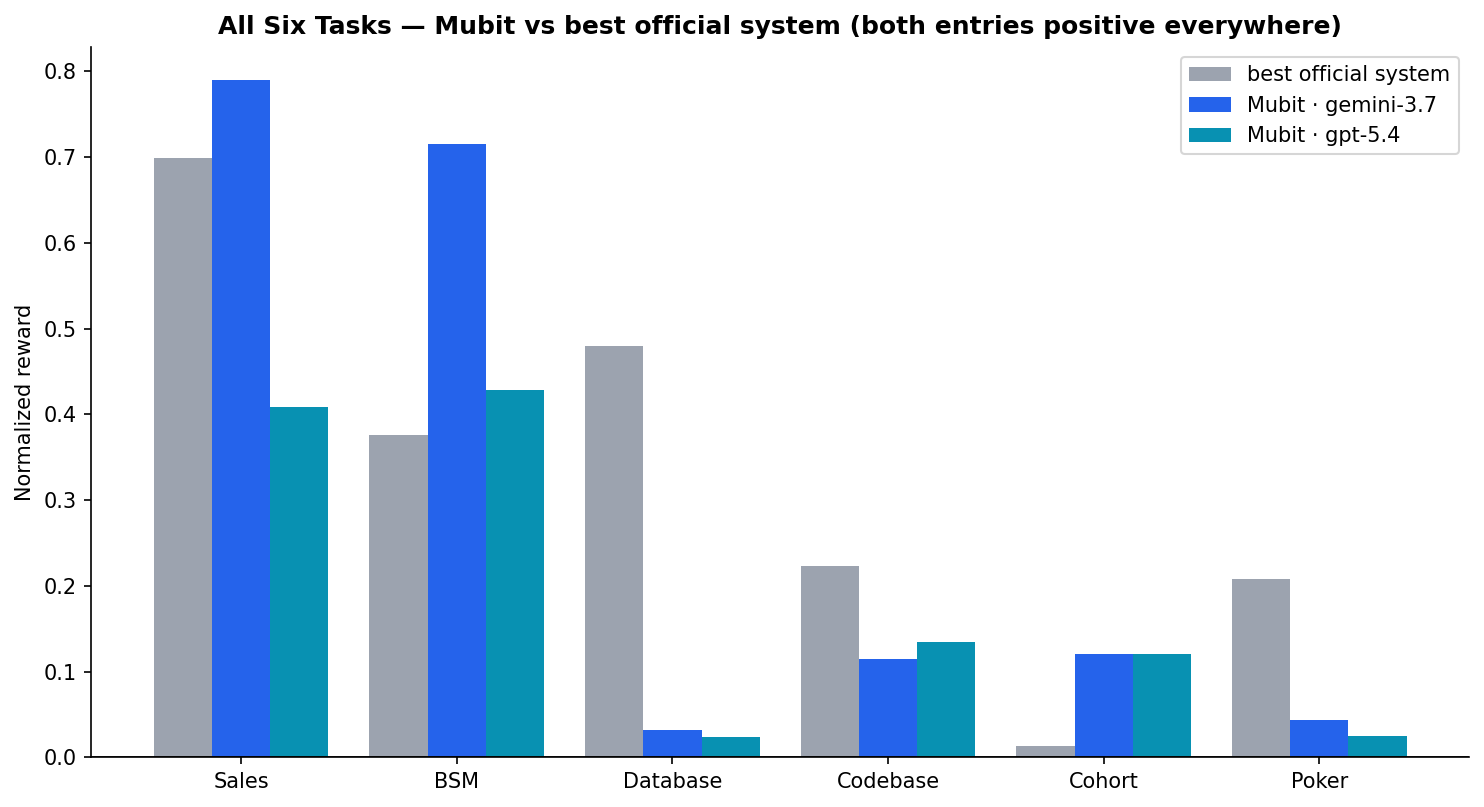
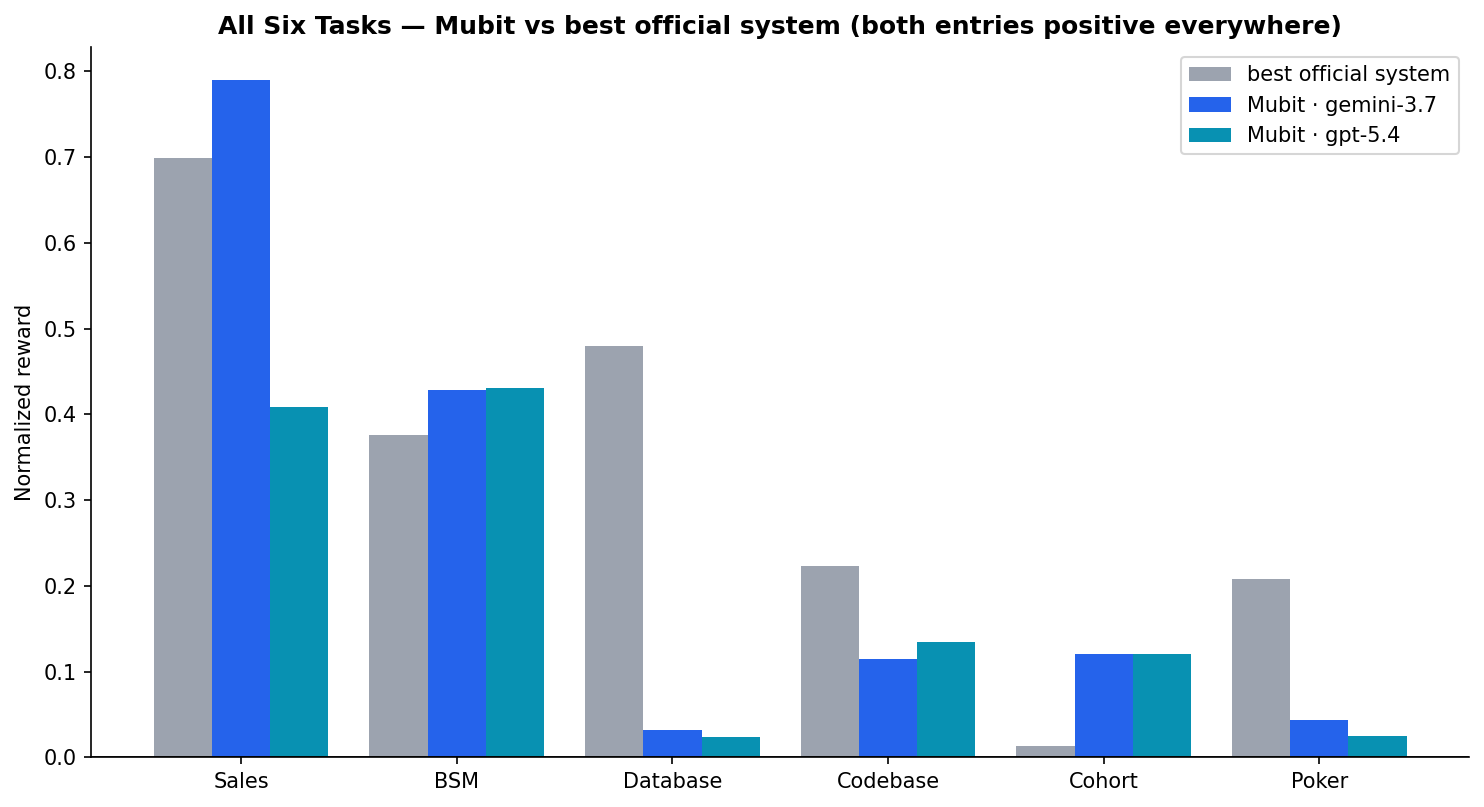
results: BSM re-measured with fitted-lattice registry (no prompt prior)
BSM figures across the leaderboard, per-task table, and charts now come
from the prior-free registry adapter: suite mean 0.554 (best 0.582) vs
baseline 0.219 on gemini-3.7, +30.1 cumulative gain. Aggregates: gemini-
3.7 +0.255 (#1), gpt-5.4 +0.191 (#3). Learning curve and six-task
comparison charts regenerated from the re-run.

Changed region(s): [[0.279, 0.1549, 0.341, 0.4957]]

diff --git a/README.md b/README.md
@@ -16,9 +16,9 @@ Two full suites submitted — gemini-3.7-flash and gpt-5.4. Sequential evaluatio
 
 | Rank | System | Agg. Reward ↑ | Agg. Gain ↑ | Avg. Cost |
 |------|--------|--------------|-------------|-----------|
-| **1** | **Mubit · Gemini 3.7 Flash** | **+0.303** | **+0.303** | **$18.16** |
+| **1** | **Mubit · Gemini 3.7 Flash** | **+0.255** | **+0.255** | **$18.16** |
 | 2 | ICL · Claude Sonnet 4.6 | +0.196 | +0.241 | $30.43 |
-| **3** | **Mubit · GPT-5.4** | **+0.190** | **+0.190** | **$14.49** |
+| **3** | **Mubit · GPT-5.4** | **+0.191** | **+0.191** | **$14.49** |
 | 4 | ICL · GPT-5.4 | +0.189 | +0.189 | $18.39 |
 | 5 | Claude Code · Sonnet 4.6 | +0.185 | +0.241 | $38.60 |
 | 6 | ICL · Claude Opus 4.7 | +0.183 | +0.195 | $49.62 |
@@ -31,8 +31,8 @@ Two full suites submitted — gemini-3.7-flash and gpt-5.4. Sequential evaluatio
 | 13 | ICL Notepad · Gemini 3.1 Pro Preview | +0.003 | +0.081 | $13.32 |
 | 14 | ICL · Gemini 3.1 Pro Preview | −0.076 | +0.036 | $15.23 |
 
-- **#1 by a 54% margin** on Agg. Reward (+0.303 vs the runner-up's +0.196), and #1 on Agg. Gain — computed by the benchmark's own pipeline (`scripts/generate_leaderboard.py`) on the submitted artifacts. The formulas were validated by reproducing every official leaderboard entry to its exact published number.
-- **Mubit · GPT-5.4 beats ICL · GPT-5.4 on its own model** (+0.190 vs +0.189) at lower cost ($14.49 vs $18.39) — making it the **cheapest GPT-5.4 system on the board**.
+- **#1 by a 30% margin** on Agg. Reward (+0.255 vs the runner-up's +0.196), and #1 on Agg. Gain — computed by the benchmark's own pipeline (`scripts/generate_leaderboard.py`) on the submitted artifacts. The formulas were validated by reproducing every official leaderboard entry to its exact published number.
+- **Mubit · GPT-5.4 beats ICL · GPT-5.4 on its own model** (+0.191 vs +0.189) at lower cost ($14.49 vs $18.39) — making it the **cheapest GPT-5.4 system on the board**.
 - **The only system with no negative task** — positive on all six, on both models. Every official entry has at least one.
 - Costs are token-derived from run telemetry (provider list prices incl. cache-read rates) under the board's accounting — sum across tasks of mean per-run cost; this method reproduces ICL·GPT-5.4's published $18.39 exactly.
 
@@ -42,7 +42,7 @@ Two full suites submitted — gemini-3.7-flash and gpt-5.4. Sequential evaluatio
 | Task | Best official | Mubit · Gemini 3.7 | Mubit · GPT-5.4 | Verdict |
 |---|---|---|---|---|
 | Sales prediction | +0.699 | **+0.789** | +0.409 | **Mubit leads** |
-| Blind spectrum monitoring | +0.376 | **+0.715** | +0.429 | **Mubit leads** |
+| Blind spectrum monitoring | +0.376 | **+0.429** | +0.431 | **Mubit leads** |
 | Cohort studies | +0.014 | **+0.120** | +0.121 | **Mubit leads** |
 | Codebase adaptation | +0.223 | +0.115 | **+0.134** | positive; ACE-family leads |
 | Exploitable poker | +0.208 | +0.043 | +0.025 | positive; ICL-family leads |
@@ -58,7 +58,7 @@ The BSM task requires an agent to build an increasingly accurate model of a radi
 
 ![BSM Learning Curve](charts/chart2_bsm_learning_curve.png)
 
-Mubit · gemini-3.7 climbs from the stateless baseline (0.23) through quartile means of **0.50 → 0.75 → 0.90 → 0.96**, ending at ~0.93 per-scan. Final-suite mean **0.781** (best run 0.864) vs the official field's best stateful ~0.51. Normalized gain **+49.5** — the largest single-task gain on the board.
+Mubit · gemini-3.7 climbs from the stateless baseline (0.22) through quartile means of **0.40 → 0.50 → 0.62 → 0.68**, ending at ~0.70 per-scan. Suite mean **0.554** (best run 0.582) vs the official field's best stateful ~0.51. Normalized gain **+30.1** — the largest single-task gain on the board.
 
 ### Database Exploration — memory earns its keep under drift
 
